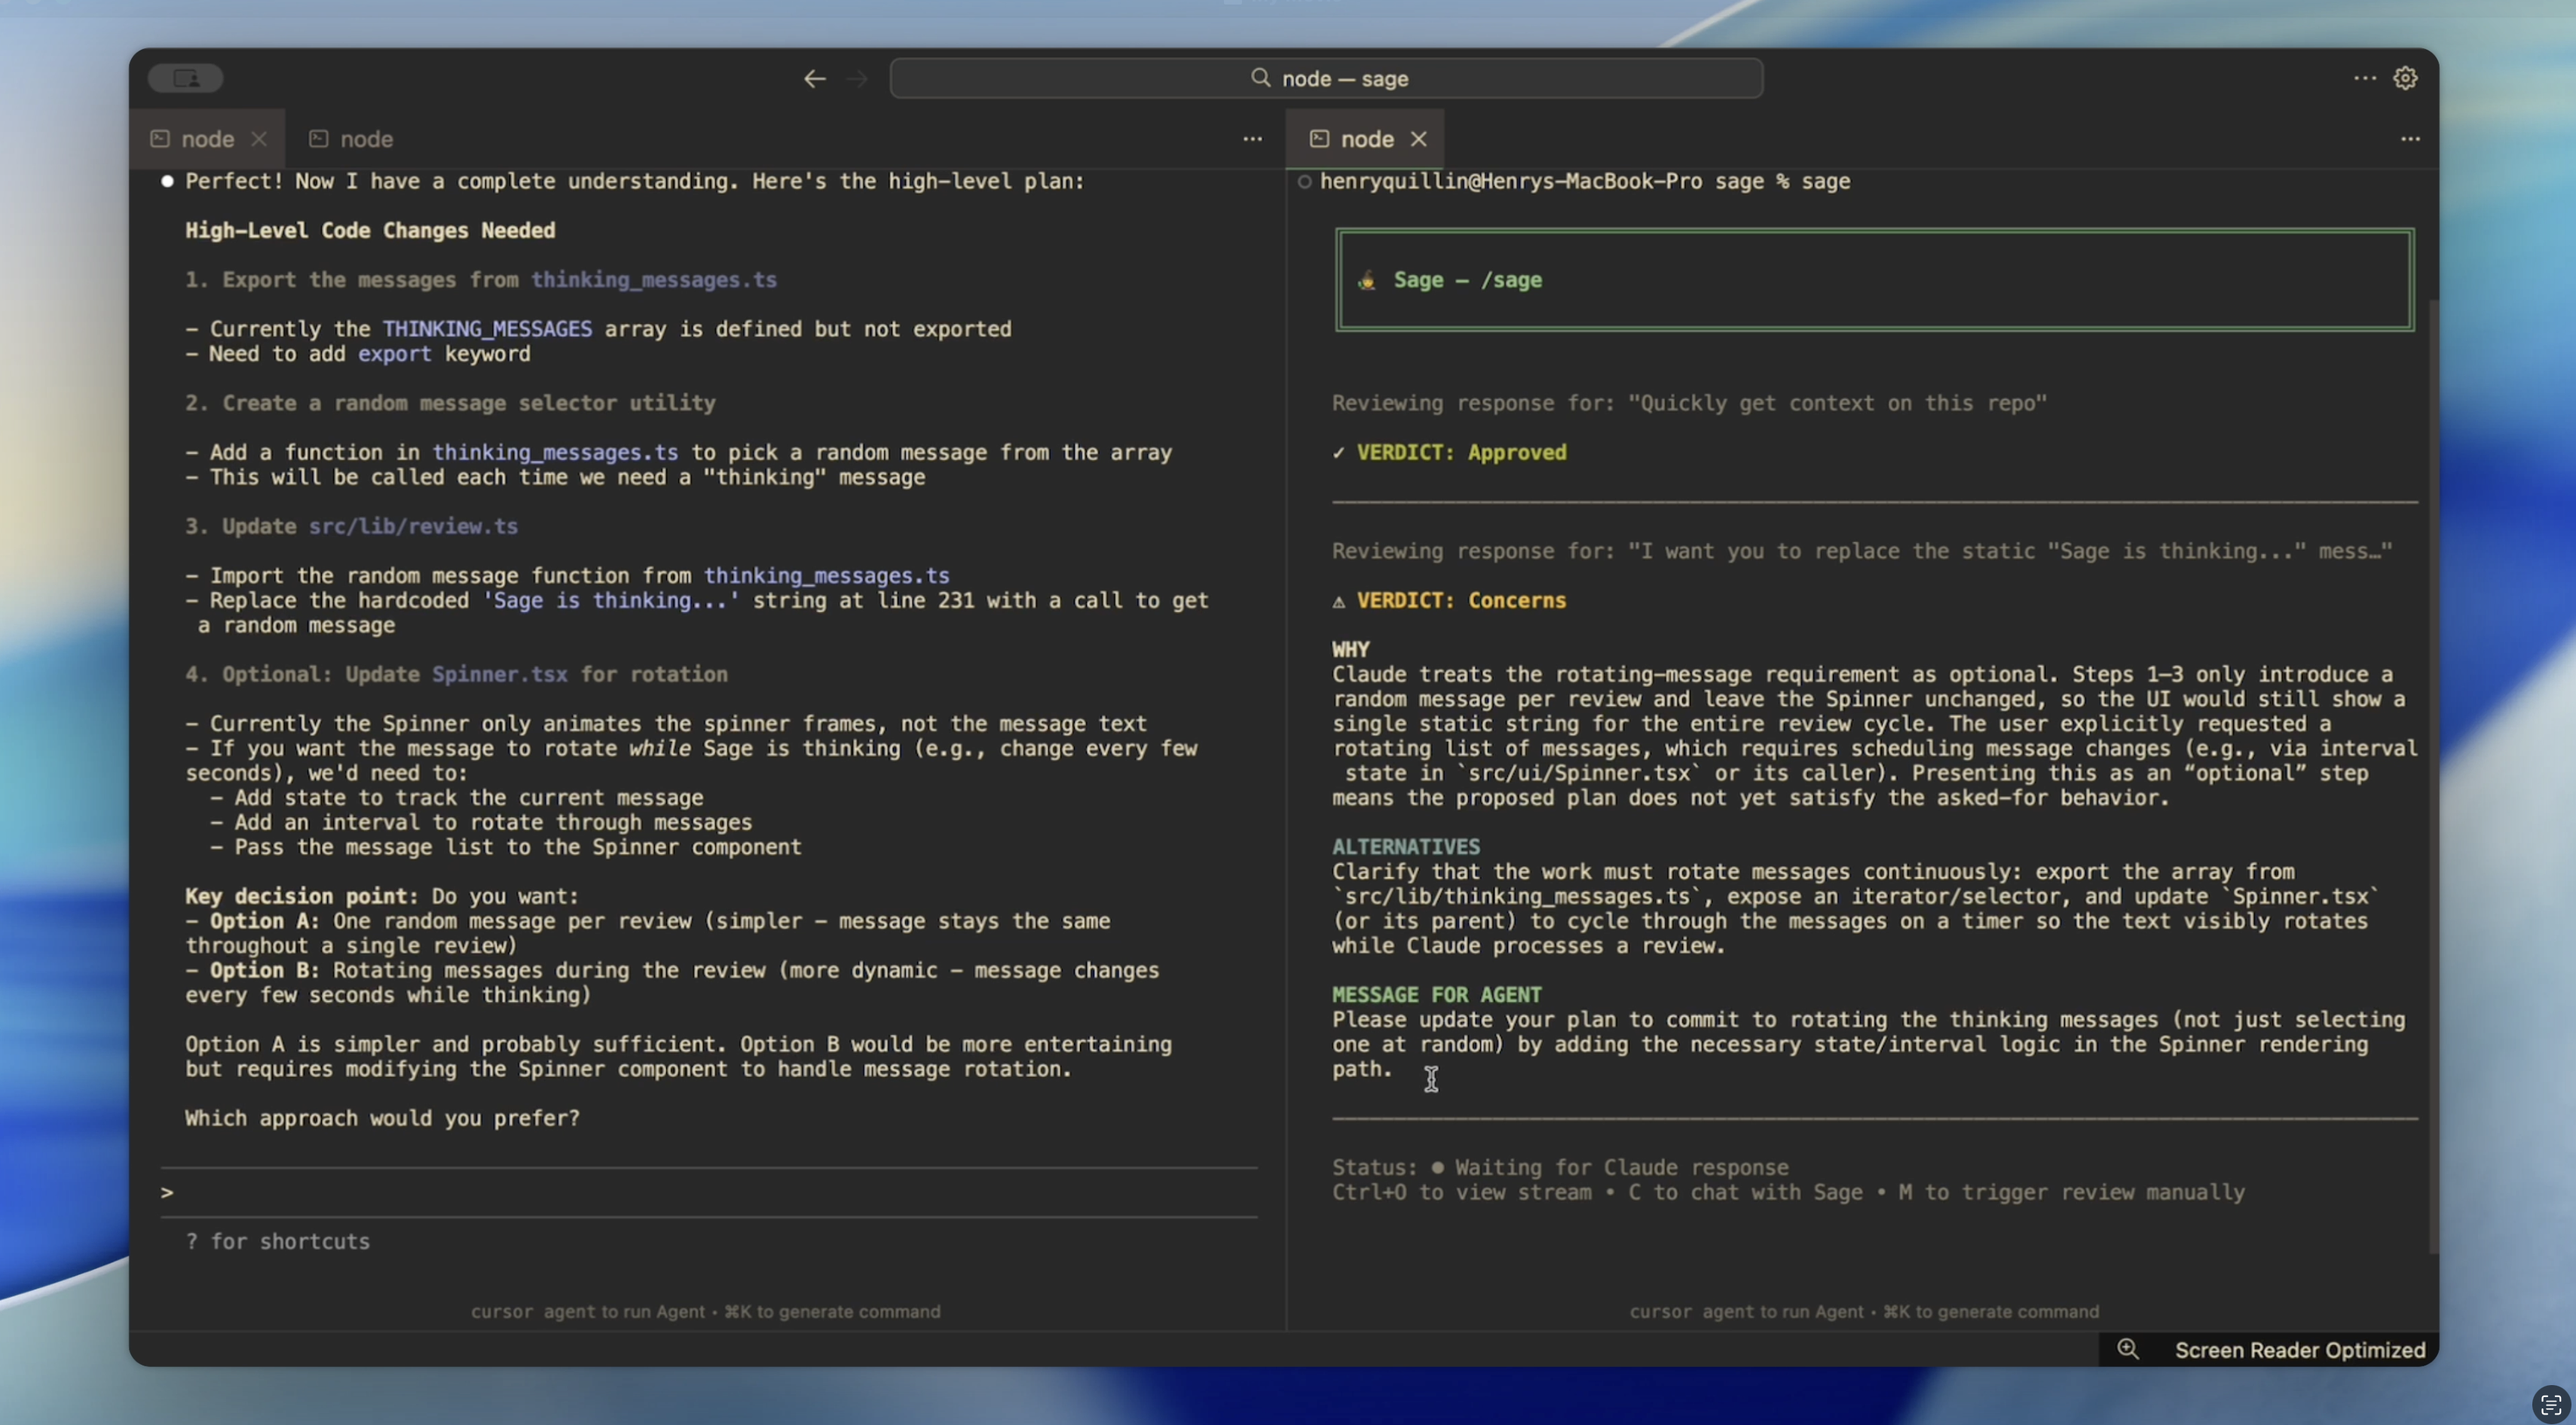
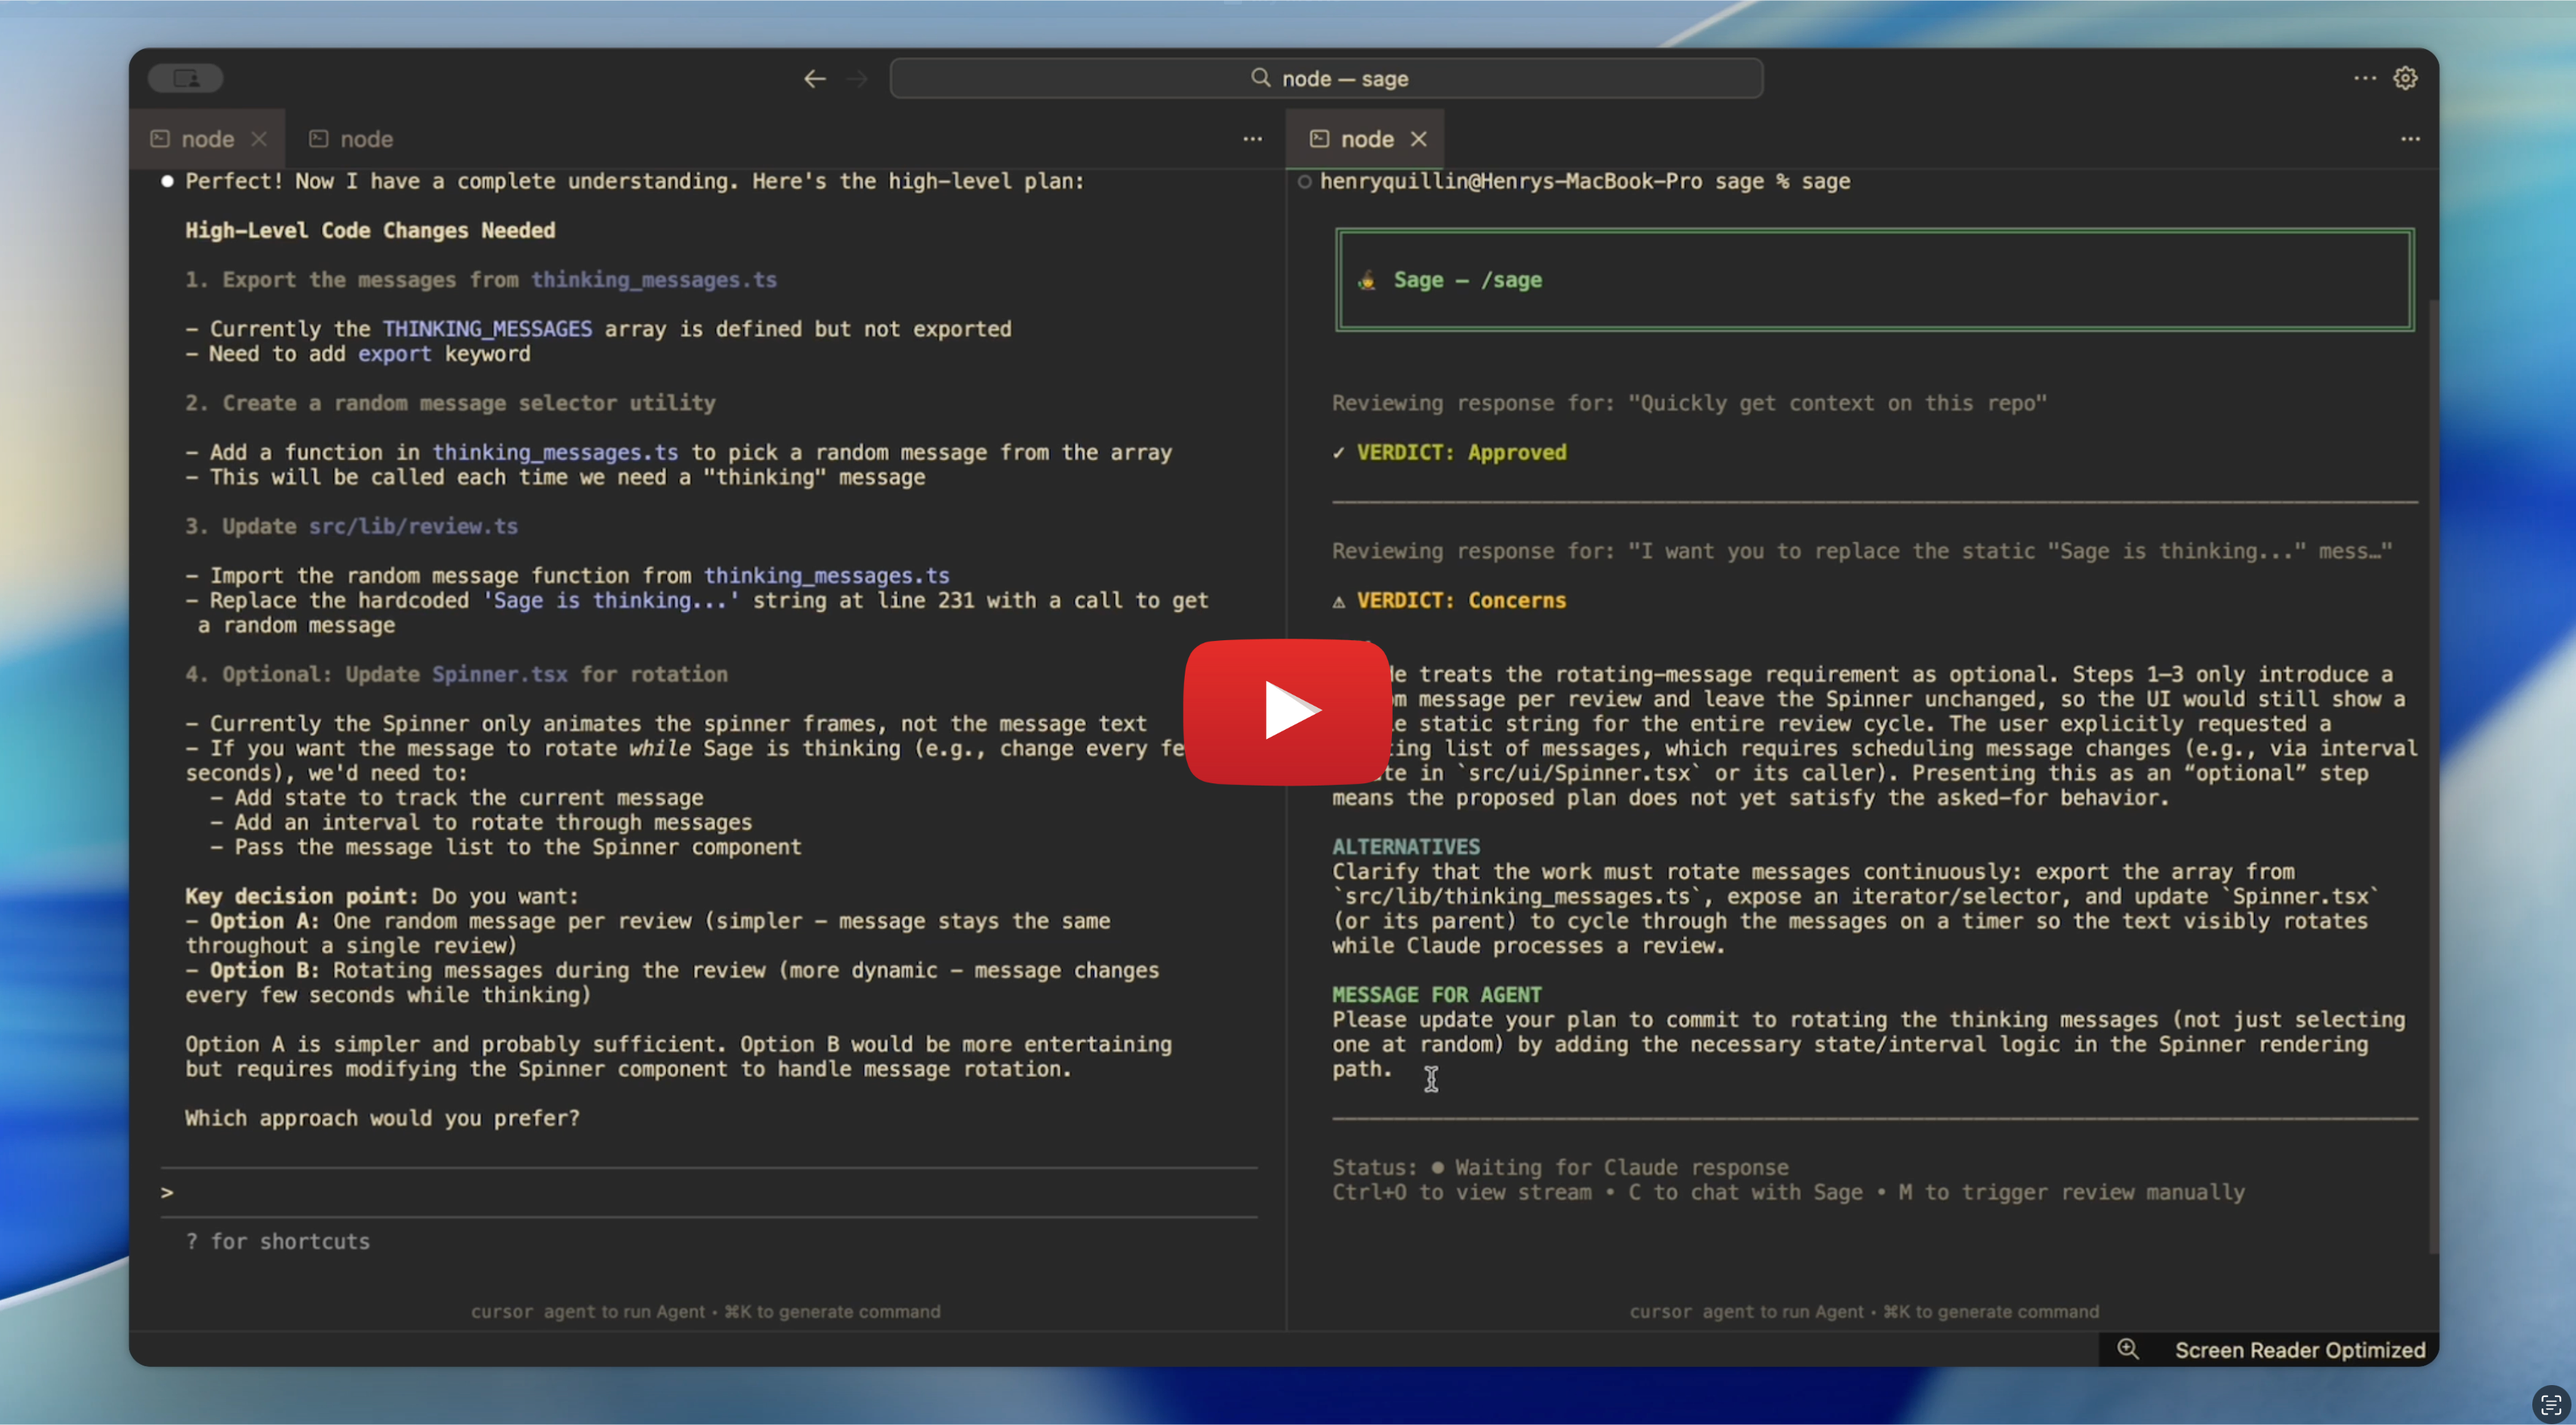
update thumbnail

Changed region(s): [[0.0, 0.9979, 1.0, 1.0], [0.4342, 0.4366, 0.5582, 0.5613], [0.0, 0.5301, 0.031, 0.5925]]

diff --git a/README.md b/README.md
@@ -24,8 +24,6 @@ Unlike existing review tools, Sage doesn't just look at code — it critiques yo
 
 ### Demo
 
-Click the image below to watch the demo:
-
 [![Watch the Sage demo](./assets/images/demo-thumbnail.png)](https://www.youtube.com/watch?v=SerQyhBtlwM)
 
 ---
@@ -54,7 +52,7 @@ It works, but it's tedious and completely breaks flow.
 
 Sage automates this process.
 
-- Currently, Sage uses Codex models for review.
+- Currently, Sage uses the OpenAI Codex SDK for review.
 - Soon, Sage will have support for multiple flagship models (Claude, Gemini, Grok) to work as a model council—inspired by Karpathy's LLM council concept.
 
 This lets you leverage the unique strengths of each model without leaving your normal workflow.
@@ -87,6 +85,8 @@ You can then copy the “Message for agent” and paste it back into Claude Code
 ---
 
 ### Setup (Claude Code)
+
+> **Note:** Sage has only been tested on macOS. Support for other operating systems may be limited.
 
 ```bash
 claude --version  # Verify: should be 2.0.50 or higher
@@ -229,7 +229,7 @@ Sage uses:
 
 ---
 
-### Who are we
+### Who We Are
 
 Sage is an open source project developed by [Tig](https://usetig.dev/), a YC-backed startup building developer tools for the AI era.
 
